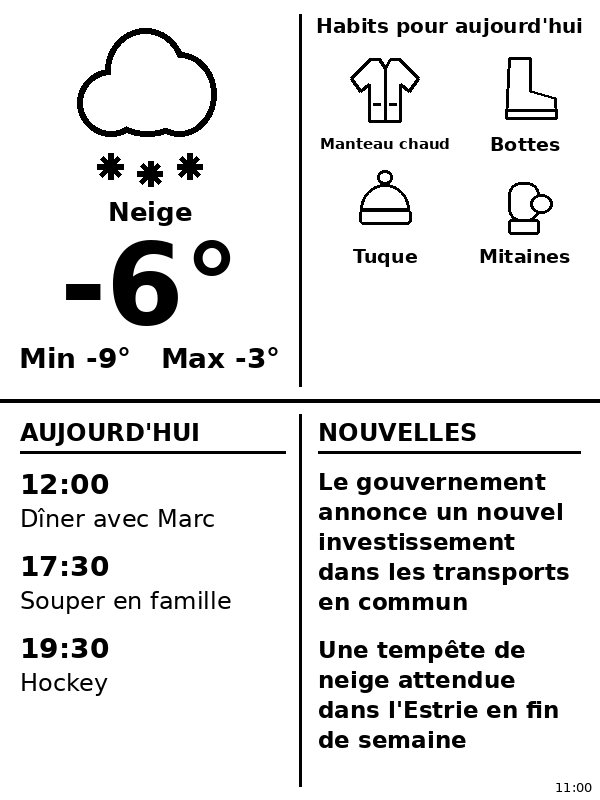
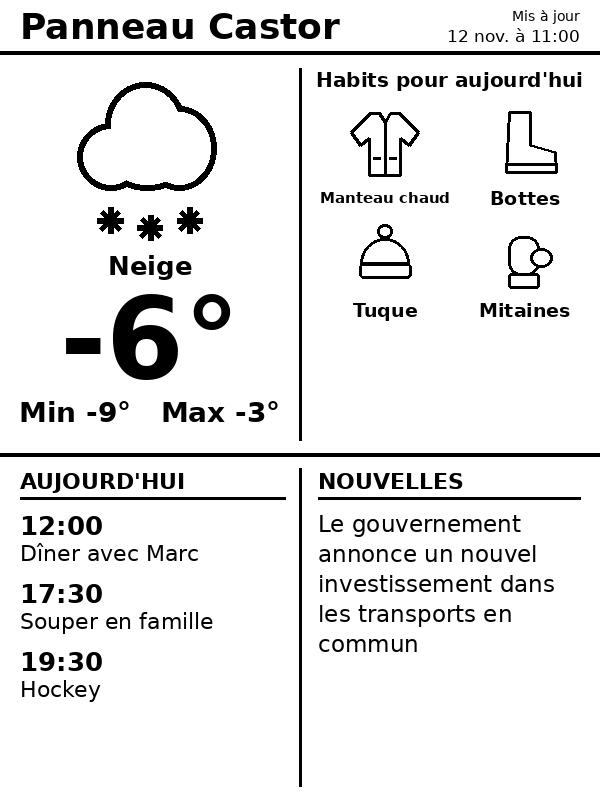
Various improvements

Changed region(s): [[0.0, 0.0, 1.0, 0.9375], [0.93, 0.9688, 0.99, 1.0]]

diff --git a/server/check_calendar.py b/server/check_calendar.py
@@ -1,0 +1,104 @@
+#!/usr/bin/env python3
+"""Diagnostic du calendrier : montre ce que contient l'adresse .ics configurée et
+pourquoi les événements sont (ou ne sont pas) affichés sur l'image.
+
+Lit l'URL dans config.ini ([calendar] ics_url). N'écrit rien et n'affiche jamais l'URL
+complète (elle est secrète) : seulement le nom du serveur.
+
+Usage :
+    python3 server/check_calendar.py
+    python3 server/check_calendar.py --config /autre/config.ini
+"""
+import argparse
+import importlib.metadata as md
+import platform
+import sys
+from datetime import date, datetime, timedelta
+
+import requests
+
+from calendar_events import _to_local, todays_events
+from config import load_config
+
+JOURS_A_VOIR = 7
+
+
+def main():
+    ap = argparse.ArgumentParser(description=__doc__.split("\n")[0])
+    ap.add_argument("--config", default=None, help="chemin de config.ini")
+    a = ap.parse_args()
+
+    cfg = load_config(a.config)
+    if not cfg.calendar_url:
+        print("Aucune adresse de calendrier : [calendar] ics_url est vide dans config.ini.")
+        return 1
+
+    import icalendar
+    import recurring_ical_events
+
+    now = datetime.now(cfg.tz)
+    url = cfg.calendar_url.replace("webcal://", "https://", 1)
+    host = url.split("/")[2] if "//" in url else "?"
+
+    print(f"Python {platform.python_version()} | icalendar {md.version('icalendar')} | "
+          f"recurring-ical-events {md.version('recurring-ical-events')}")
+    print(f"Maintenant : {now:%Y-%m-%d %H:%M} ({cfg.timezone})")
+    print(f"Serveur du calendrier : {host}")
+
+    # 1. Téléchargement
+    r = requests.get(url, timeout=30)
+    print(f"Réponse HTTP : {r.status_code}, {len(r.content)} octets, "
+          f"type {r.headers.get('Content-Type', '?')}")
+    r.raise_for_status()
+    if not r.content.lstrip().startswith(b"BEGIN:VCALENDAR"):
+        print("Ce n'est PAS un fichier iCal. Début de la réponse :")
+        print(r.content[:150])
+        return 1
+
+    # 2. Contenu du fichier
+    cal = icalendar.Calendar.from_ical(r.content)
+    print(f"Événements dans le fichier : {len(cal.walk('VEVENT'))}")
+    print(f"Fuseau déclaré par le calendrier : {cal.get('X-WR-TIMEZONE', '(aucun)')}")
+
+    # 3. Les prochains jours, tels que la bibliothèque les voit
+    debut = datetime.combine(now.date(), datetime.min.time(), tzinfo=cfg.tz)
+    fin = debut + timedelta(days=JOURS_A_VOIR)
+    evs = recurring_ical_events.of(cal).between(debut, fin)
+    print(f"\nÉvénements des {JOURS_A_VOIR} prochains jours (aujourd'hui compris) : {len(evs)}")
+    lignes = []
+    for ev in evs:
+        start = ev.get("DTSTART").dt
+        end_prop = ev.get("DTEND")
+        end = end_prop.dt if end_prop is not None else None
+        titre = str(ev.get("SUMMARY", "(sans titre)")).strip()
+        statut = str(ev.get("STATUS", "")).upper()
+        if isinstance(start, datetime):
+            s = _to_local(start, cfg.tz)
+            e = _to_local(end, cfg.tz) if isinstance(end, datetime) else None
+            quand = f"{s:%a %d %b %H:%M}" + (f" -> {e:%H:%M}" if e else "")
+            cle = s
+        else:
+            quand = f"{start:%a %d %b} (journée)"
+            cle = datetime.combine(start, datetime.min.time(), tzinfo=cfg.tz)
+        lignes.append((cle, f"  {quand}  {titre}" + (f"  [{statut}]" if statut else "")))
+    for _, ligne in sorted(lignes):
+        print(ligne)
+    if not lignes:
+        print("  (aucun : le fichier n'a rien pour cette période)")
+
+    # 4. Ce que l'image affichera
+    print("\nAffiché sur l'image (événements d'aujourd'hui pas encore terminés) :")
+    res = todays_events(cfg.calendar_url, cfg.tz, now)
+    if res:
+        for label, titre in res:
+            print(f"  {label}  {titre}")
+    else:
+        print("  (rien -> l'image affiche « Rien de prévu »)")
+        auj = [l for c, l in sorted(lignes) if c.date() == now.date()]
+        if auj:
+            print("  Il y a pourtant des événements aujourd'hui : ils sont déjà terminés.")
+    return 0
+
+
+if __name__ == "__main__":
+    sys.exit(main())

diff --git a/README.md b/README.md
@@ -41,14 +41,18 @@ change than anything running on a 2012 e-reader.
 
 **Screen layout (600×800):**
 
-- **Top half, left:** big weather icon (sun, moon at night, clouds, rain, snow, fog,
+- **Header:** a title ("Panneau Castor" by default) with, in small text on the right, when
+  the image was last updated (for example "12 nov. à 11:00"), which makes a stale image easy
+  to spot.
+- **Weather block, left:** big weather icon (sun, moon at night, clouds, rain, snow, fog,
   storm), the condition in French, the current temperature, and the day's min/max.
-- **Top half, right:** up to 6 clothing icons for the children. Before noon they are for
+- **Weather block, right:** up to 6 clothing icons for the children. Before noon they are for
   today (based on the feels-like temperature); from noon on they switch to tomorrow
   (based on the average of tomorrow's min and max).
-- **Bottom half, left:** today's calendar events that are not over yet (all-day events
-  first). Shows "Calendrier non configuré" if no calendar URL is set.
-- **Bottom half, right:** the top headlines from a news RSS feed.
+- **Bottom block, left:** today's calendar events that are not over yet (all-day events
+  first), in a compact two-line format. Shows "+ N autres" when they don't all fit, and
+  "Calendrier non configuré" if no calendar URL is set.
+- **Bottom block, right:** the top news headline(s) in regular type, as many as fit.
 
 If a data source fails (no network, bad URL), that block shows a short French message
 ("Météo indisponible", "Nouvelles indisponibles", "Calendrier indisponible") instead of
@@ -79,13 +83,12 @@ kobo_dashboard/
 │   ├── dashboard.py          entry point: fetches data, lays out, writes the image
 │   ├── config.py             loads config.ini
 │   ├── calendar_events.py    reads an .ics URL, returns today's events
+│   ├── check_calendar.py     diagnostic: shows what the .ics contains and what gets displayed
 │   ├── draw_utils.py         fonts, text fitting and wrapping helpers
 │   ├── icons.py              hand-drawn weather and clothing icons
 │   └── requirements.txt      Python dependencies
 └── kobo/                     runs on the Kobo
-    ├── kobo_fetch.sh         download the image (and optionally display it, or loop)
-    ├── kobo_loop_test.sh     display a local image in a loop to test that the Kobo stays awake
-    └── fbink_common.sh       shared helper: finds an fbink build that can display images
+    └── kobo_fetch.sh         download the image, display it, or loop (with a log)
 ```
 
 ## Example values used in this README
@@ -216,12 +219,15 @@ generated, so changes apply on the next run.
 | `[location]` | `latitude`, `longitude` | Where the weather is for |
 | `[location]` | `timezone` | IANA time zone name, e.g. `America/Toronto` (also used to decide "today" and the noon switch) |
 | `[news]` | `feed_url` | RSS feed of headlines. Empty shows "Nouvelles non configurées" |
-| `[news]` | `headlines` | How many headlines to show (default 2) |
+| `[news]` | `headlines` | How many headlines to show (default 1; shows as many as fit, the last one may be truncated) |
+| `[display]` | `title` | Title in the header (default "Panneau Castor") |
 | `[calendar]` | `ics_url` | Private iCal (.ics) address. Empty shows "Calendrier non configuré" |
 
 **Calendar URL:** in Google Calendar, use *Settings → your calendar → Integrate calendar →
 "Secret address in iCal format"*. Anyone with that address can read your calendar, so treat
-it like a password. This is exactly why it belongs in `config.ini` and never in the repo.
+it like a password. This is exactly why it belongs in `config.ini` and never in the repo. If it
+ever leaks (pasted in a chat, committed by mistake), reset it from the same screen in Google
+Calendar (the *Reset* button next to the secret address) and put the new one in `config.ini`.
 `webcal://` addresses are accepted.
 
 **Other settings live in the code:**
@@ -251,50 +257,37 @@ version, an intermediate firmware may be needed.)
 <https://github.com/koreader/koreader/wiki/Installation-on-Kobo-devices>. KOReader provides
 the launcher setup and the terminal emulator used below.
 
-**3. Copy the scripts.** Create a folder on the device, for example `/mnt/onboard/dash/`,
-and copy the contents of `kobo/` into it. The scripts keep the image in a `Dashboard/`
-subfolder next to themselves.
+**3. Copy the script.** Create a folder on the device, for example `/mnt/onboard/dash/`, and
+copy `kobo/kobo_fetch.sh` into it. The script saves the image as `dashboard.png` right next to
+itself, and the loop keeps a log (`fetch.log`) there too.
 
-**4. Test the display.** Put any 600×800 PNG at `dash/Dashboard/dashboard.png`, then run
-from KOReader's terminal emulator:
-
-```sh
-sh /mnt/onboard/dash/kobo_loop_test.sh
-```
-
-See [Keeping the Kobo awake](#keeping-the-kobo-awake) for how to read the result.
-
-**5. Connect to the Pi.** `kobo_fetch.sh` already points to
+**4. Connect to the Pi.** `kobo_fetch.sh` already points to
 `http://192.168.1.135/dashboard.png`. If your Pi has another address, edit `URL` in the
-script or set `DASH_URL`. Turn wifi on, then:
+script or set `DASH_URL`. Turn wifi on, then run from KOReader's terminal emulator:
 
 ```sh
 sh /mnt/onboard/dash/kobo_fetch.sh        # download only
 sh /mnt/onboard/dash/kobo_fetch.sh show   # download and display
-sh /mnt/onboard/dash/kobo_fetch.sh loop   # every 30 minutes
+sh /mnt/onboard/dash/kobo_fetch.sh loop   # download and display every 30 minutes
 ```
+
+The interval of `loop` is set with `DASH_INTERVAL` (in seconds, default 1800).
 
 Plain `http://` is deliberate: the old Kobo firmware may struggle with modern HTTPS
 certificates, and this only travels over your home network.
 
-**FBInk with image support.** `fbink` is the tool that draws the image on the e-ink screen,
-but some builds (including the one bundled with KOReader) are "minimal" and refuse images
-with the error *"image support is disabled in this fbink build"*. The scripts therefore try
-several locations in order (the `FBINK` variable if set, `/usr/local/bin/fbink`,
-`/mnt/onboard/.adds/fbink/fbink`, KOReader's own copies, then the `PATH`) and skip any build
-that has no image support. If none works, install a full FBInk build:
+**FBInk with image support.** The scripts draw the image with the `fbink` command, taken from
+the `PATH` (normally `/usr/bin/fbink`). To use another binary:
+`FBINK=/path/to/fbink sh kobo_fetch.sh show`. It must be a **full** FBInk build: the one
+bundled with KOReader is a "minimal" build and fails with *"image support is disabled in this
+fbink build"*. To install a full one:
 
 - Get the Kobo package from NiLuJe's FBInk thread on MobileRead
   (<https://www.mobileread.com/forums/showthread.php?t=299110>), or from the FBInk releases
   on GitHub (<https://github.com/NiLuJe/FBInk/releases>), and follow the install
-  instructions there (for the Kobo package this is normally the usual `KoboRoot.tgz`
-  routine: copy it into `.kobo`, eject, wait for the reboot). FBInk supports the whole Kobo
-  lineup starting from the Kobo Touch, so the Mini is covered.
-- Afterwards, `ls /usr/local/bin/fbink` (or `which fbink`) tells you where it landed. To force
-  a specific binary: `FBINK=/path/to/fbink sh kobo_fetch.sh show`.
-
-I haven't verified the exact package file name or install location on a real Kobo Mini, so
-check the thread's instructions rather than trusting the paths above blindly.
+  instructions there (copy `KoboRoot.tgz` into `.kobo`, eject).
+- **Restart the Kobo** afterwards: the install only takes effect on reboot.
+- Check with `which fbink`.
 
 ## Keeping the Kobo awake
 
@@ -307,12 +300,17 @@ plug-in. For a dashboard that refreshes on its own, there are three options:
    repeat, for weeks of battery life. Untested on the Kobo Mini's old kernel.
 3. **Manual refresh.** Wake it by hand when you want fresh data.
 
-**Validating option 1:** run `kobo/kobo_loop_test.sh` for 30 minutes or more with the Kobo on
-its charger. It redraws the image at each interval, prints a counter and timestamp at the
-bottom of the screen, and appends to `test_loop.log`.
+**Validating option 1:** run the loop with a short interval for 30 minutes or more, with the
+Kobo on its charger and without touching the screen:
 
-- If the counter matches elapsed time divided by the interval, it never slept.
-- In the log, a gap between two lines larger than the interval means the device suspended.
+```sh
+DASH_INTERVAL=60 sh /mnt/onboard/dash/kobo_fetch.sh loop
+```
+
+Each round downloads and redraws the image, then appends a line to `fetch.log` next to the
+script (the last 500 lines are kept). A gap between two lines larger than the interval means
+the device suspended, and a "téléchargement échoué" or "affichage échoué" line tells you why
+nothing changed. The Pi must be reachable, since every round downloads the image.
 
 If it suspends while running under KOReader, disable KOReader's own auto-suspend in its
 settings and test again. The final setup should stop KOReader and the stock Kobo software
@@ -336,20 +334,36 @@ and wifi.
 - **"Météo indisponible", "Nouvelles indisponibles" or "Calendrier indisponible" on the
   image:** the Pi couldn't reach that source or couldn't read it. The exact error is in
   `output/dashboard.log` (or on screen if you ran the script by hand).
+- **The calendar says "Rien de prévu" but you have events:** run the diagnostic, which shows
+  what the calendar file contains and why each event is or isn't displayed:
+
+  ```sh
+  /home/pi/kobo_dashboard/.venv/bin/python /home/pi/kobo_dashboard/server/check_calendar.py
+  ```
+
+  The usual causes: today's events are **already over** (finished events are hidden, so in the
+  evening you often see "Rien de prévu"), the event was added very recently (Google can take
+  hours to update a secret `.ics` feed), or it is on another calendar than the one whose
+  address you configured. The diagnostic never prints the full URL.
 - **"Calendrier non configuré" / "Nouvelles non configurées":** `ics_url` / `feed_url` is
   empty in `config.ini`.
 - **nginx returns 404:** `output/dashboard.png` doesn't exist yet (run the script once), or
   the `alias` path doesn't match your install folder.
 - **nginx returns 403:** see the `chmod o+x /home/pi` step above.
 - **"image support is disabled in this fbink build" on the Kobo:** the fbink in use is a
-  minimal build. Install a full one, see "FBInk with image support" in
-  [Kobo setup](#kobo-setup). The scripts print which builds they skipped.
+  minimal build. Install a full one (and restart the Kobo), see "FBInk with image support"
+  in [Kobo setup](#kobo-setup).
+- **`fbink introuvable`:** no `fbink` in the `PATH`. See the same section, or point to it with
+  the `FBINK` variable.
+- **The terminal draws over the image after `show`:** expected, since KOReader's terminal
+  shares the screen. Use the `loop` modes for testing (they never return to the prompt) and
+  don't touch the screen; the final setup runs without KOReader.
 - **Download fails on the Kobo:** check wifi, and test the address from the Kobo's terminal
   with `curl -I http://192.168.1.135/dashboard.png`.
 - **KOReader redraws over the image:** expected while KOReader owns the screen. It matters
   only for testing; the final setup stops it.
-- **The image is stale:** check the small clock in the bottom-right corner, then the cron
-  job and `output/dashboard.log` on the Pi.
+- **The image is stale:** check the "Mis à jour" stamp in the header, then the cron job and
+  `output/dashboard.log` on the Pi.
 
 ## Roadmap
 
